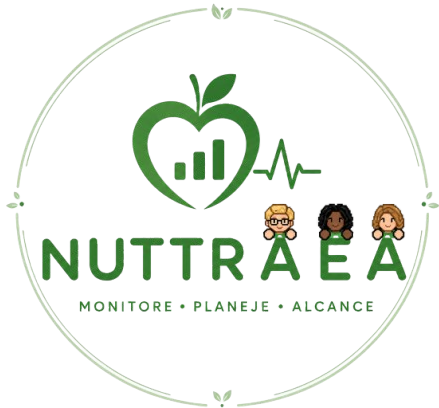
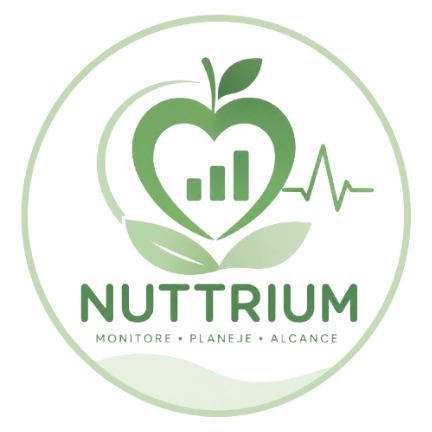
Atualiza páginas HTML

diff --git a/alimentacao/templates/base.html b/alimentacao/templates/base.html
@@ -12,7 +12,7 @@
         content="width=device-width, initial-scale=1.0"
     >
 
-    <title>Nuttraea | Monitoramento calórico</title>
+    <title>Nuttrium | Monitoramento calórico</title>
 
     <link
         rel="icon"
@@ -35,7 +35,7 @@
         (function () {
 
             const temaSalvo =
-                localStorage.getItem('nuttraea-theme');
+                localStorage.getItem('nuttrium-theme');
 
             if (temaSalvo === 'dark') {
 
@@ -99,13 +99,13 @@
             <a
                 class="brand-link"
                 href="{% url 'home' %}"
-                aria-label="Nuttraea - Página inicial"
+                aria-label="Nuttrium - Página inicial"
             >
 
                 <img
                     class="brand-logo"
                     src="{% static 'images/logo.png' %}"
-                    alt="Nuttraea logo"
+                    alt="Nuttrium logo"
                 >
 
             </a>
@@ -304,7 +304,7 @@
             <div>
 
                 <p class="eyebrow">
-                    Copyright &copy; 2026 Ellis Carvalho Xavier | Nuttraea
+                    Copyright &copy; 2026 Ellis Carvalho Xavier | Nuttrium
                 </p>
 
                 <h3>
@@ -735,7 +735,7 @@
                 function salvarTema(tema) {
 
                     localStorage.setItem(
-                        'nuttraea-theme',
+                        'nuttrium-theme',
                         tema
                     );
 
@@ -748,7 +748,7 @@
 
                 const temaSalvo =
                     localStorage.getItem(
-                        'nuttraea-theme'
+                        'nuttrium-theme'
                     );
 
 

diff --git a/alimentacao/templates/home.html b/alimentacao/templates/home.html
@@ -10,7 +10,7 @@
         <h1>Seu acompanhamento calórico, claro, elegante e diário.</h1>
 
         <p>
-            O Nuttraea reúne registro alimentar, metas, histórico e clareza visual em
+            O Nuttrium reúne registro alimentar, metas, histórico e clareza visual em
             uma experiência premium para quem quer cuidar da saúde com consistência.
         </p>
 
@@ -21,7 +21,7 @@
     </div>
 
   <div class="hero-visual">
-    <img class="hero-logo" src="{% static 'images/1.png' %}" alt="Logo Nuttraea">
+    <img class="hero-logo" src="{% static 'images/1.png' %}" alt="Logo Nuttrium">
 </div>
 
 </section>
@@ -90,7 +90,7 @@
   </style>
   <div class="section-heading">
     <p class="eyebrow">Benefícios</p>
-    <h2>Conheça os benefícios em usar o Nuttraea.</h2>
+    <h2>Conheça os benefícios em usar o Nuttrium.</h2>
   </div>
   <div class="carousel-wrap">
     <div class="carousel-track">

diff --git a/alimentacao/templates/index.html b/alimentacao/templates/index.html
@@ -3,7 +3,7 @@
 <head>
   <meta charset="UTF-8">
   <meta name="viewport" content="width=device-width, initial-scale=1.0">
-  <title>Nuttraea | Monitoramento nutricional</title>
+  <title>Nuttrium | Monitoramento nutricional</title>
   {% load static %}
   <link rel="stylesheet" href="{% static 'css/styles.css' %}?v={{ STATIC_VERSION }}">
 </head>

diff --git a/alimentacao/static/css/styles.css b/alimentacao/static/css/styles.css
@@ -1055,7 +1055,7 @@ textarea:focus {
 
 
 /* =========================================================
-   RESPONSIVIDADE GERAL - NUTTRAEA
+   RESPONSIVIDADE GERAL - NUTTRIUM
    ========================================================= */
 
 :root {

diff --git a/README.md b/README.md
@@ -111,7 +111,6 @@ Obs.: lembre-se de pesquisar os alimentos traduzindo-os para o inglês 😉
 # Como executar o projeto
 
 ## Clonar o repositório
-
 ```bash
 git clone https://github.com/EllisCarvalho3/pcc.git
 ```
@@ -179,7 +178,7 @@ http://127.0.0.1:8000/
 
 O desenvolvimento do sistema fundamenta-se na promoção da alimentação saudável entre estudantes, considerando que a rotina escolar frequentemente dificulta o planejamento alimentar e favorece o consumo de alimentos ultraprocessados.
 
-Ao permitir o monitoramento diário da alimentação, o Nuttraea busca incentivar escolhas alimentares mais conscientes e contribuir para o bem-estar e o desempenho acadêmico dos usuários.
+Ao permitir o monitoramento diário da alimentação, o Nuttrium busca incentivar escolhas alimentares mais conscientes e contribuir para o bem-estar e o desempenho acadêmico dos usuários.
 
 ---
 
